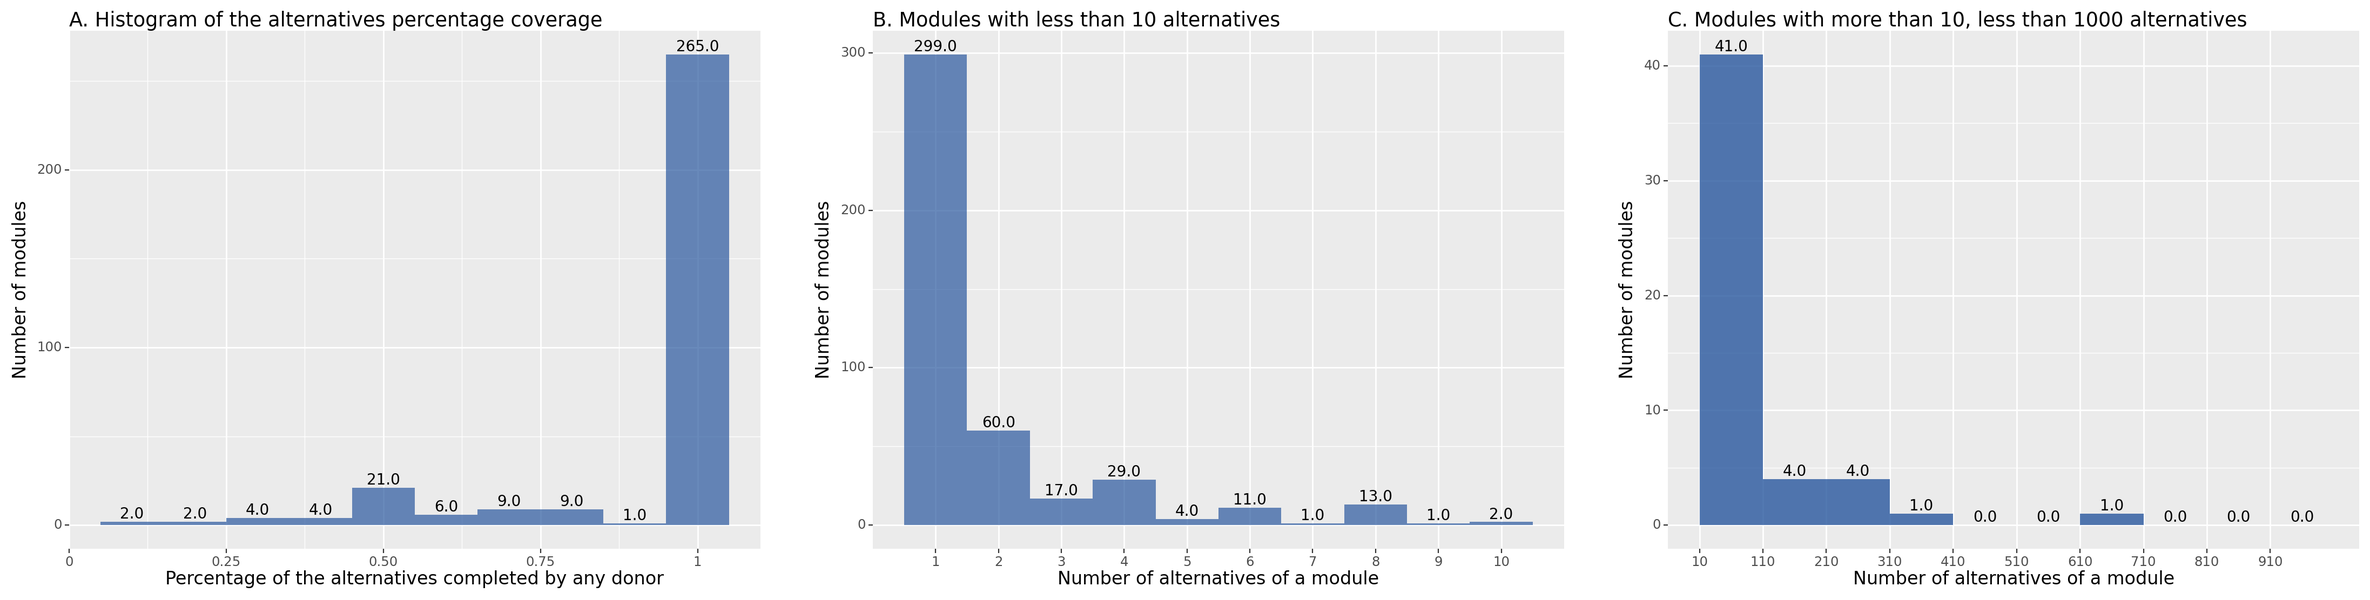
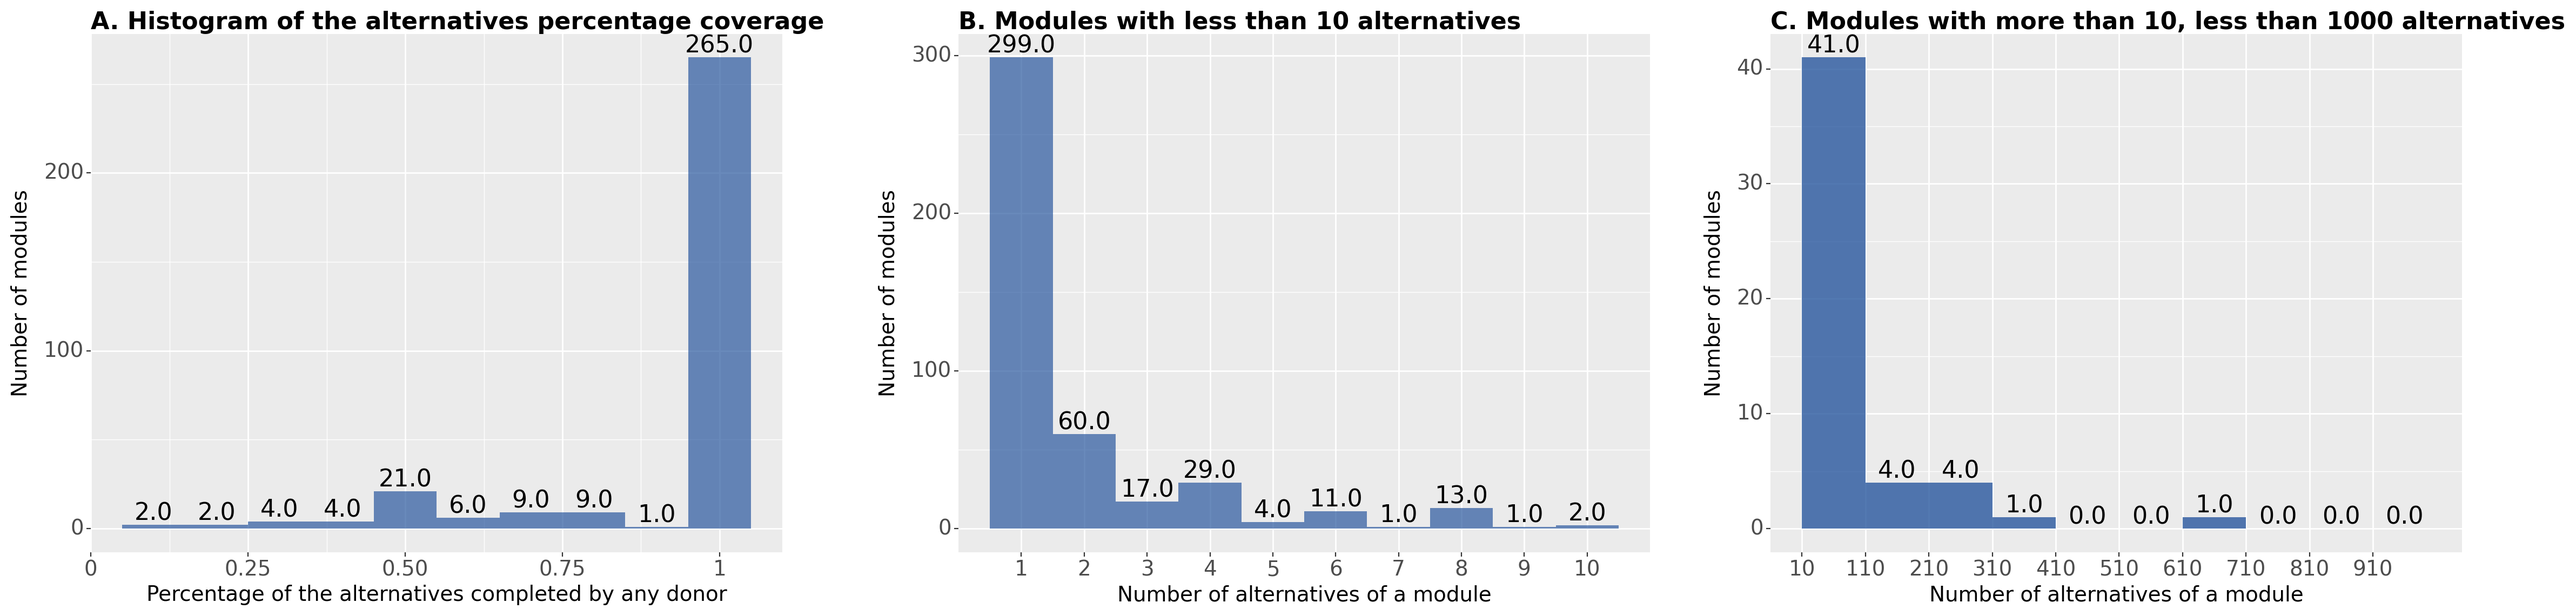
add font size

diff --git a/compl_stats/pathway_compl/pathway_complementarity_stats.py b/compl_stats/pathway_compl/pathway_complementarity_stats.py
@@ -1,5 +1,5 @@
 import json
-import pandas as pd 
+import pandas as pd
 import matplotlib.pyplot as plt
 import readline
 import pandas as pd
@@ -27,7 +27,7 @@ for module in defs.keys():
 
 
 log_defs = defs.copy()
-counter = 0 
+counter = 0
 all_alternatives = 0
 for module in defs.keys():
 	print(str(counter), "out of", str(len(defs)))
@@ -52,7 +52,7 @@ for index, row in df.iterrows():
 		if alternative not in log_defs[module]["observed-alternatives"]:
 			log_defs[module]["observed-alternatives"].append(alternative)
 
-counter3 = 0 
+counter3 = 0
 data_points = []
 modules_with_no_complements = []
 for module, data in log_defs.items():
@@ -88,19 +88,25 @@ higher_than_1000 = new_data_points_df[new_data_points_df["alternatives"] > 1000]
 # Create the bar plot
 g2 = (
     ggplot(up_to_10, aes(x="alternatives"))
-    + geom_histogram(binwidth=1, alpha=0.7, fill="#28579E") 
+    + geom_histogram(binwidth=1, alpha=0.7, fill="#28579E")
     + geom_text(
-        aes(label='..count..'), 
-        stat='bin', 
-        binwidth=1, 
-        va='bottom', 
-        size=10, 
+        aes(label='..count..'),
+        stat='bin',
+        binwidth=1,
+        va='bottom',
+        size=16,
         color='black'
     )
     + labs(
-    	title="B. Modules with less than 10 alternatives", 
-    	x="Number of alternatives of a module", 
+    	title="B. Modules with less than 10 alternatives",
+    	x="Number of alternatives of a module",
     	y="Number of modules")
+
+    + theme(
+        plot_title=element_text(size=16, weight="bold"),
+        axis_text=element_text(size=14),   # Adjust axis tick labels font size
+        axis_title=element_text(size=14)   # Adjust axis title font size
+    )
     + scale_x_continuous(breaks=range(1, 11), minor_breaks=[])
 )
 
@@ -109,30 +115,35 @@ min_value, max_value = 10, max(higher_than_11_to_1000["alternatives"])
 step_size = 100
 g3 = (
     ggplot(higher_than_11_to_1000, aes(x="alternatives"))
-    + geom_histogram(binwidth=100, boundary=10, alpha=0.8, fill='#28579E') 
+    + geom_histogram(binwidth=100, boundary=10, alpha=0.8, fill='#28579E')
     + geom_text(
-        aes(label='..count..'), 
-        stat='bin', 
+        aes(label='..count..'),
+        stat='bin',
         binwidth=100,
-        boundary=10, 
-        va='bottom', 
-        size=10, 
+        boundary=10,
+        va='bottom',
+        size=16,
         color='black'
     )
     + labs(
-    	title="C. Modules with more than 10, less than 1000 alternatives", 
-    	x="Number of alternatives of a module", 
+    	title="C. Modules with more than 10, less than 1000 alternatives",
+    	x="Number of alternatives of a module",
     	y="Number of modules")
+    + theme(
+        plot_title=element_text(size=16, weight="bold"),
+        axis_text=element_text(size=14),   # Adjust axis tick labels font size
+        axis_title=element_text(size=14)   # Adjust axis title font size
+    )
     + scale_x_continuous(
-        limits=(min_value, 1001), 
+        limits=(min_value, 1001),
         breaks=range(min_value, 1001, step_size),
         minor_breaks=[]
-    ) 
+    )
 )
 
 
 
-counter3 = 0 
+counter3 = 0
 data_points = []
 modules_with_no_complements = []
 for module, data in log_defs.items():
@@ -148,19 +159,25 @@ data_points_df.columns = ["percentage"]
 
 g1 = (
     ggplot(data_points_df, aes(x="percentage"))
-    + geom_histogram(binwidth=0.1, alpha=0.7, fill="#28579E") 
+    + geom_histogram(binwidth=0.1, alpha=0.7, fill="#28579E")
     + geom_text(
-        aes(label='..count..'), 
-        stat='bin', 
-        binwidth=0.1, 
-        va='bottom', 
-        size=10, 
+        aes(label='..count..'),
+        stat='bin',
+        binwidth=0.1,
+        va='bottom',
+        size=16,
         color='black'
     )
     + labs(
-    	title="A. Histogram of the alternatives percentage coverage", 
-    	x="Percentage of the alternatives completed by any donor", 
+    	title="A. Histogram of the alternatives percentage coverage",
+    	x="Percentage of the alternatives completed by any donor",
     	y="Number of modules")
+
+    + theme(
+        plot_title=element_text(size=16, weight="bold"),
+        axis_text=element_text(size=14),   # Adjust axis tick labels font size
+        axis_title=element_text(size=14)   # Adjust axis title font size
+    )
     #+ scale_x_continuous(breaks=range(0, 1), minor_breaks=[])
 )
 
